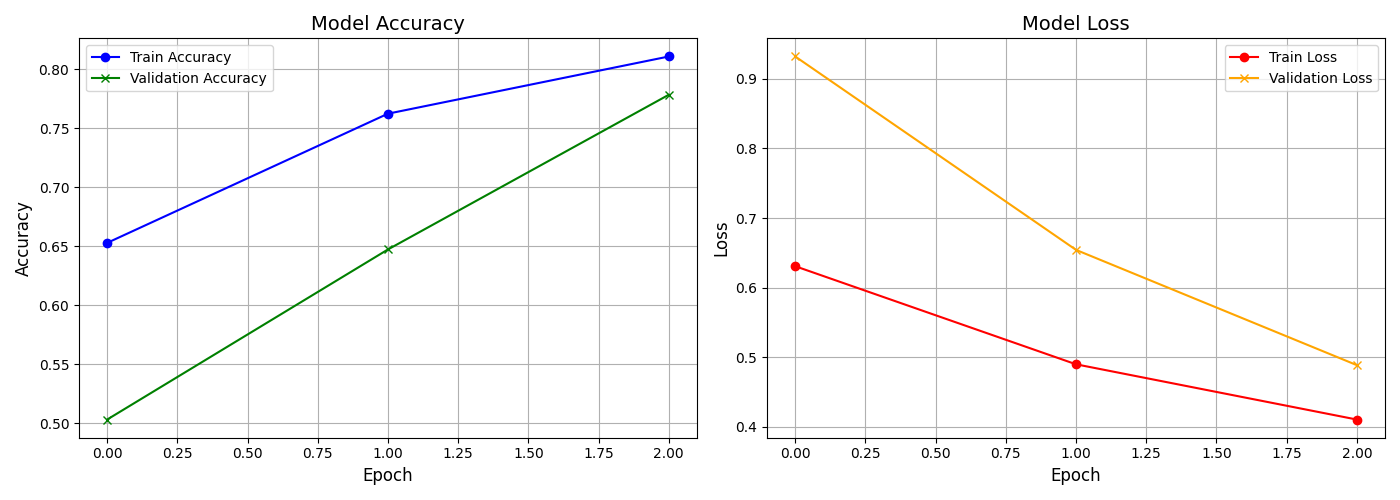
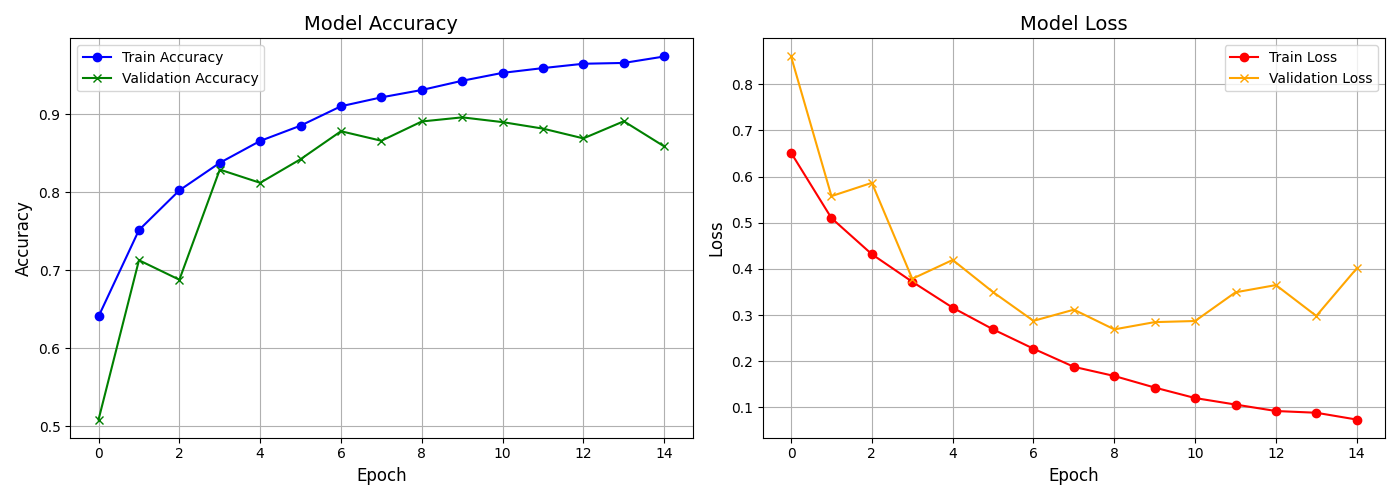
update image and loading state

diff --git a/main.py b/main.py
@@ -47,16 +47,16 @@ if __name__ == "__main__":
     data, labels = prep_and_load_images()
 
     train_size = int(CONST.DATA_SIZE * CONST.SPLIT_RATIO)
-    print('data size:', len(data), 'train size:', train_size)
+    print('Data size is:', len(data), 'Train size is:', train_size)
 
     # Split the data into training and testing data
     train_data = data[:train_size]
     train_labels = labels[:train_size]
-    print('train data fetched..')
+    print('Train data fetched..')
 
     test_data = data[train_size:]
     test_labels = labels[train_size:]
-    print('test data fetched..')
+    print('Test data fetched..')
 
     # Reshape data to match the expected input for the model
     train_images = train_data.reshape(-1, CONST.IMG_SIZE, CONST.IMG_SIZE, 3)
@@ -64,11 +64,11 @@ if __name__ == "__main__":
 
     # Now you can train the model
     model = get_model()
-    print('training started...')
+    print('Training started...')
     log_dir = os.path.join("logs", "fit", "model")
     tensorboard = TensorBoard(log_dir=log_dir, histogram_freq=1)
-    history = model.fit(train_images, train_labels, batch_size=50, epochs=3, verbose=1, validation_data=(test_images, test_labels), callbacks=[tensorboard])
-    print('training done...')
+    history = model.fit(train_images, train_labels, batch_size=50, epochs=15, verbose=1, validation_data=(test_images, test_labels), callbacks=[tensorboard])
+    print('Training done...')
 
     # Save the model
     model_file = os.path.join(results_dir, 'trained_model.h5')

diff --git a/load_images.py b/load_images.py
@@ -29,6 +29,9 @@ def prep_and_load_images():
     image_paths = os.listdir(DIR)
     shuffle(image_paths)
     count = 0
+
+    print("Loading images from dataset...")
+
     for img_path in image_paths:
         # Skip files that are not images (optional, just to be safe)
         if not img_path.lower().endswith(('png', 'jpg', 'jpeg')):
@@ -48,7 +51,6 @@ def prep_and_load_images():
         labels.append(label)  # Append the label to the labels list
         
         count += 1
-        print(count)
         
         # Stop after reaching the specified size (CONST.DATA_SIZE)
         if count == CONST.DATA_SIZE:
@@ -60,7 +62,7 @@ def prep_and_load_images():
     data[:], labels[:] = zip(*combined)
 
     print(len(data))
-    print('done')
+    print('Images loaded successfully...')
 
     # Convert lists to NumPy arrays and return
     data = np.array(data)
